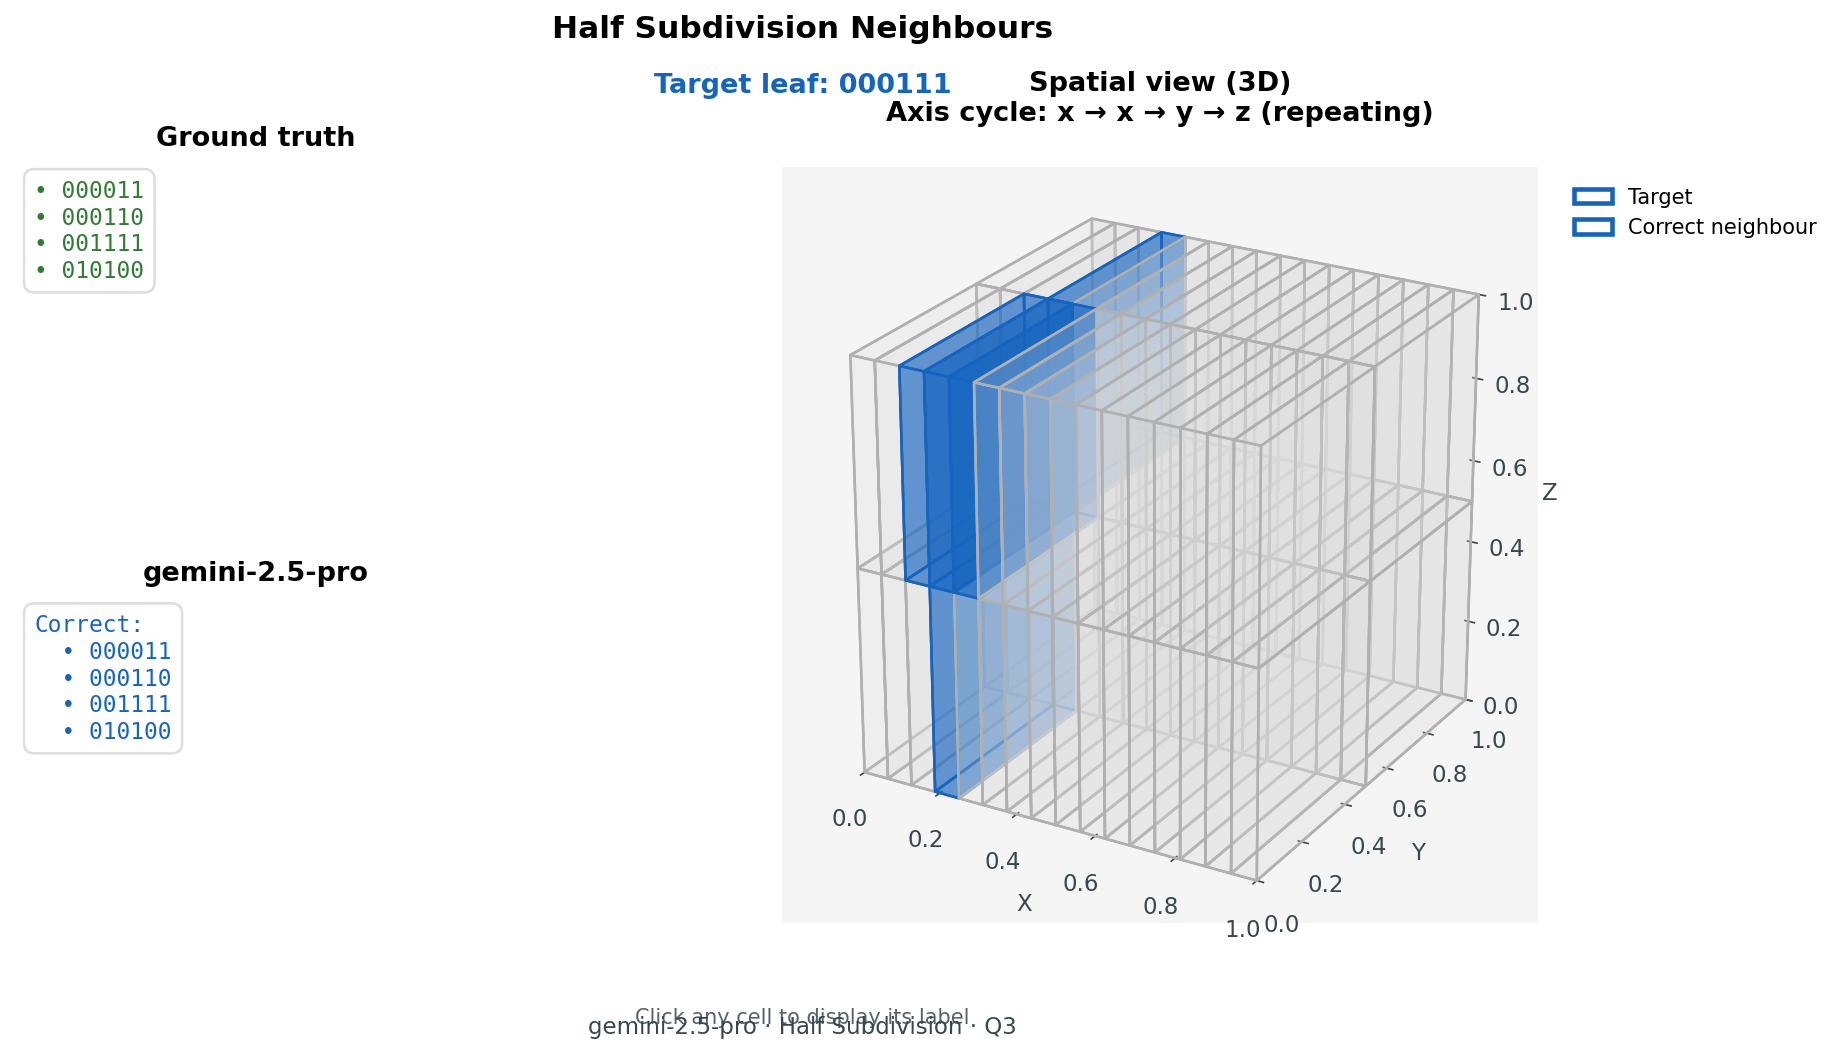
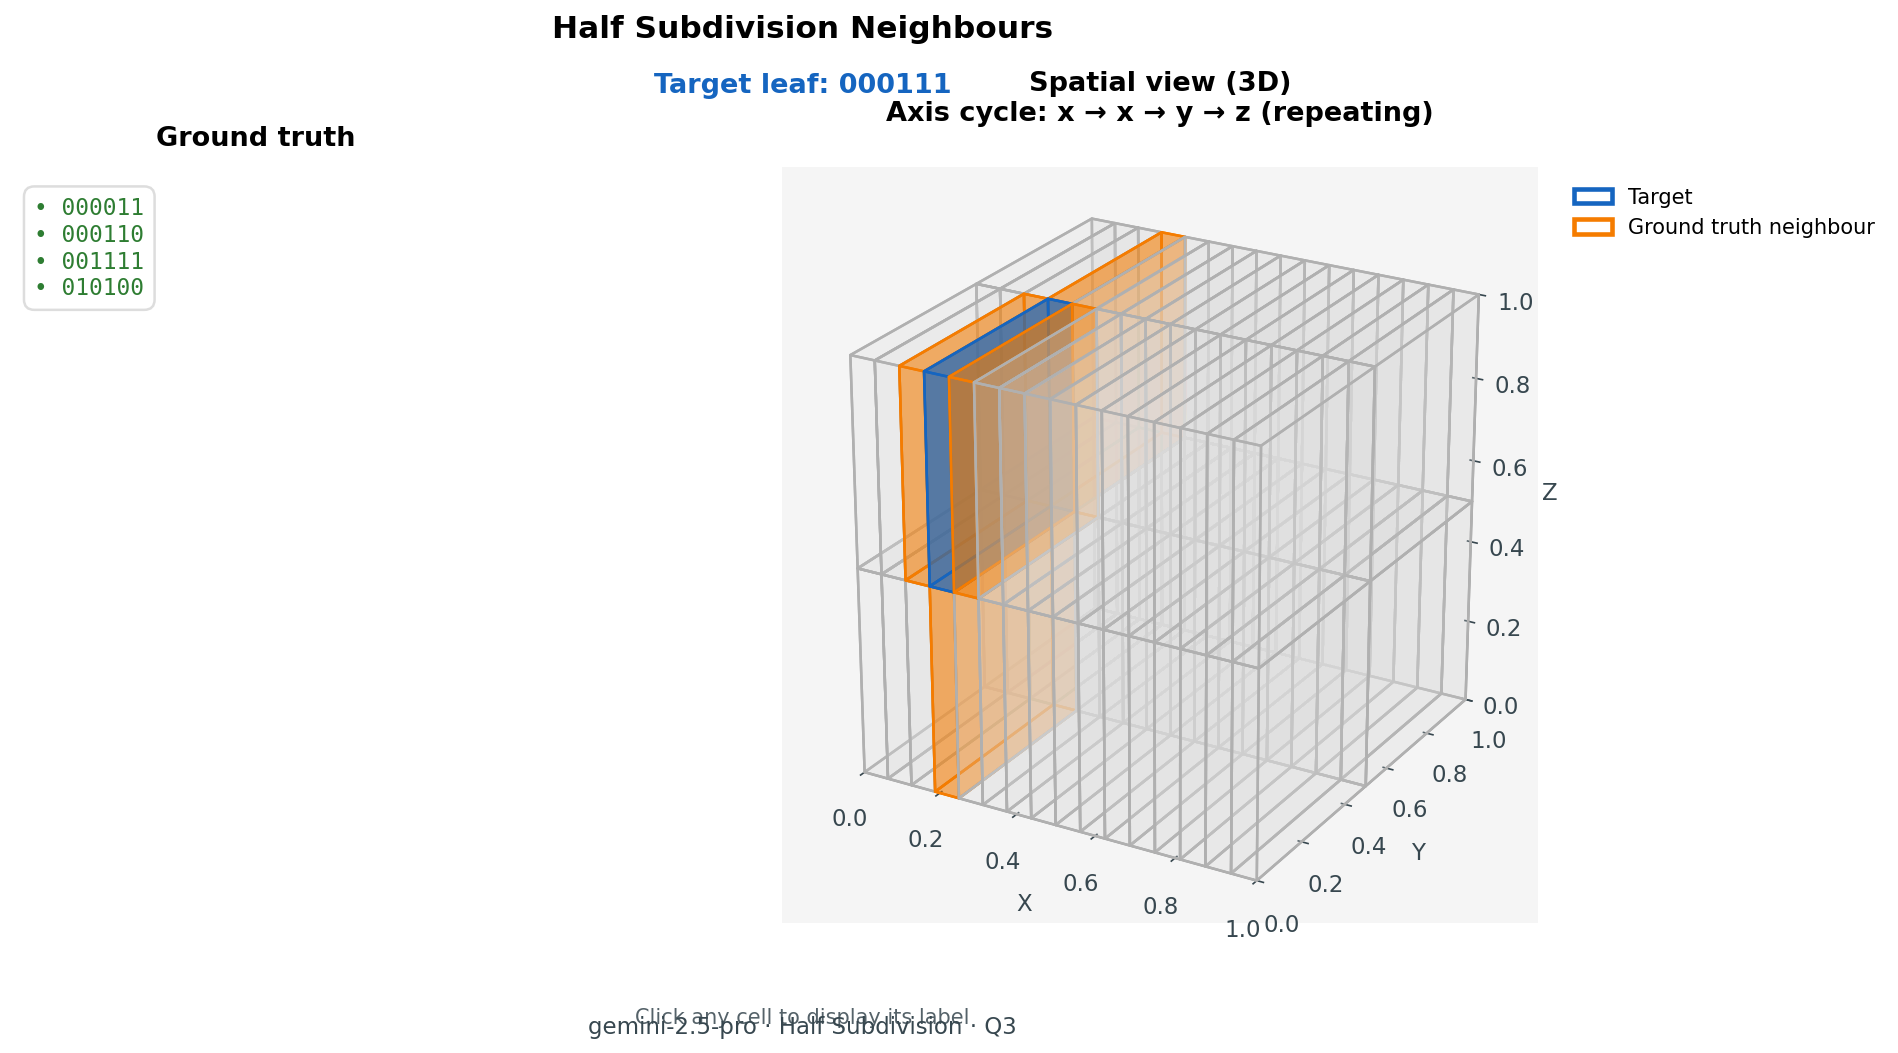
Show half-subdivision diffs only when model is wrong

diff --git a/visualisations/half_subdivision.py b/visualisations/half_subdivision.py
@@ -501,7 +501,22 @@ def _render_half_subdivision(
     )
     parsed_answer = _coerce_string_list(answer)
     model_answer_labels: list[str] = parsed_answer if isinstance(parsed_answer, list) else []
-    show_model_answer = detail and bool(model_answer_labels)
+    has_answer = bool(model_answer_labels)
+
+    highlight_labels: list[str] = list(ground_truth_labels)
+
+    gt_set = {label for label in ground_truth_labels if isinstance(label, str)}
+    answer_set = {label for label in model_answer_labels if isinstance(label, str)}
+    correct_labels = sorted(gt_set & answer_set) if has_answer else []
+    missed_labels = sorted(gt_set - answer_set) if has_answer else []
+    extra_labels = sorted(answer_set - gt_set) if has_answer else []
+    has_errors = bool(missed_labels or extra_labels)
+    model_labels_for_render = model_answer_labels if has_errors else []
+    correct_for_render = correct_labels if has_errors else []
+    missed_for_render = missed_labels if has_errors else []
+    extra_for_render = extra_labels if has_errors else []
+
+    show_model_answer = detail and has_answer and has_errors
     text_rows = 2 if show_model_answer else 1
     gs = fig.add_gridspec(text_rows, 2, width_ratios=[1, 2], hspace=0.35, wspace=0.25)
 
@@ -515,13 +530,6 @@ def _render_half_subdivision(
         colour=COLOURS["truth"],
     )
 
-    highlight_labels: list[str] = list(ground_truth_labels)
-
-    gt_set = {label for label in ground_truth_labels if isinstance(label, str)}
-    answer_set = {label for label in model_answer_labels if isinstance(label, str)}
-    correct_labels = sorted(gt_set & answer_set) if answer_set else []
-    missed_labels = sorted(gt_set - answer_set) if answer_set else []
-    extra_labels = sorted(answer_set - gt_set) if answer_set else []
     if show_model_answer:
         ax_ans = fig.add_subplot(gs[1, 0])
         diff_lines = _format_answer_diffs(correct_labels, extra_labels, missed_labels)
@@ -543,10 +551,10 @@ def _render_half_subdivision(
                 leaves,
                 target_label=target_label,
                 ground_truth_labels=highlight_labels,
-                model_answer_labels=model_answer_labels,
-                correct_labels=correct_labels,
-                missed_labels=missed_labels,
-                extra_labels=extra_labels,
+                model_answer_labels=model_labels_for_render,
+                correct_labels=correct_for_render,
+                missed_labels=missed_for_render,
+                extra_labels=extra_for_render,
                 axis_cycle=axis_cycle,
             )
         )
@@ -554,10 +562,10 @@ def _render_half_subdivision(
         _add_highlight_legend(
             ax_spatial,
             has_ground_truth=bool(highlight_labels),
-            has_model_answer=bool(model_answer_labels),
-            has_correct=bool(correct_labels),
-            has_missed=bool(missed_labels),
-            has_extra=bool(extra_labels),
+            has_model_answer=bool(model_labels_for_render),
+            has_correct=bool(correct_for_render),
+            has_missed=bool(missed_for_render),
+            has_extra=bool(extra_for_render),
             location="upper left",
             bbox_anchor=(1.02, 1.0),
             model_label=model_label,
@@ -580,19 +588,19 @@ def _render_half_subdivision(
                 leaves,
                 target_label=target_label,
                 ground_truth_labels=highlight_labels,
-                model_answer_labels=model_answer_labels,
-                correct_labels=correct_labels,
-                missed_labels=missed_labels,
-                extra_labels=extra_labels,
+                model_answer_labels=model_labels_for_render,
+                correct_labels=correct_for_render,
+                missed_labels=missed_for_render,
+                extra_labels=extra_for_render,
             )
         )
         _add_highlight_legend(
             ax_spatial,
             has_ground_truth=bool(highlight_labels),
-            has_model_answer=bool(model_answer_labels),
-            has_correct=bool(correct_labels),
-            has_missed=bool(missed_labels),
-            has_extra=bool(extra_labels),
+            has_model_answer=bool(model_labels_for_render),
+            has_correct=bool(correct_for_render),
+            has_missed=bool(missed_for_render),
+            has_extra=bool(extra_for_render),
             location="upper left",
             bbox_anchor=(1.02, 1.0),
             model_label=model_label,
